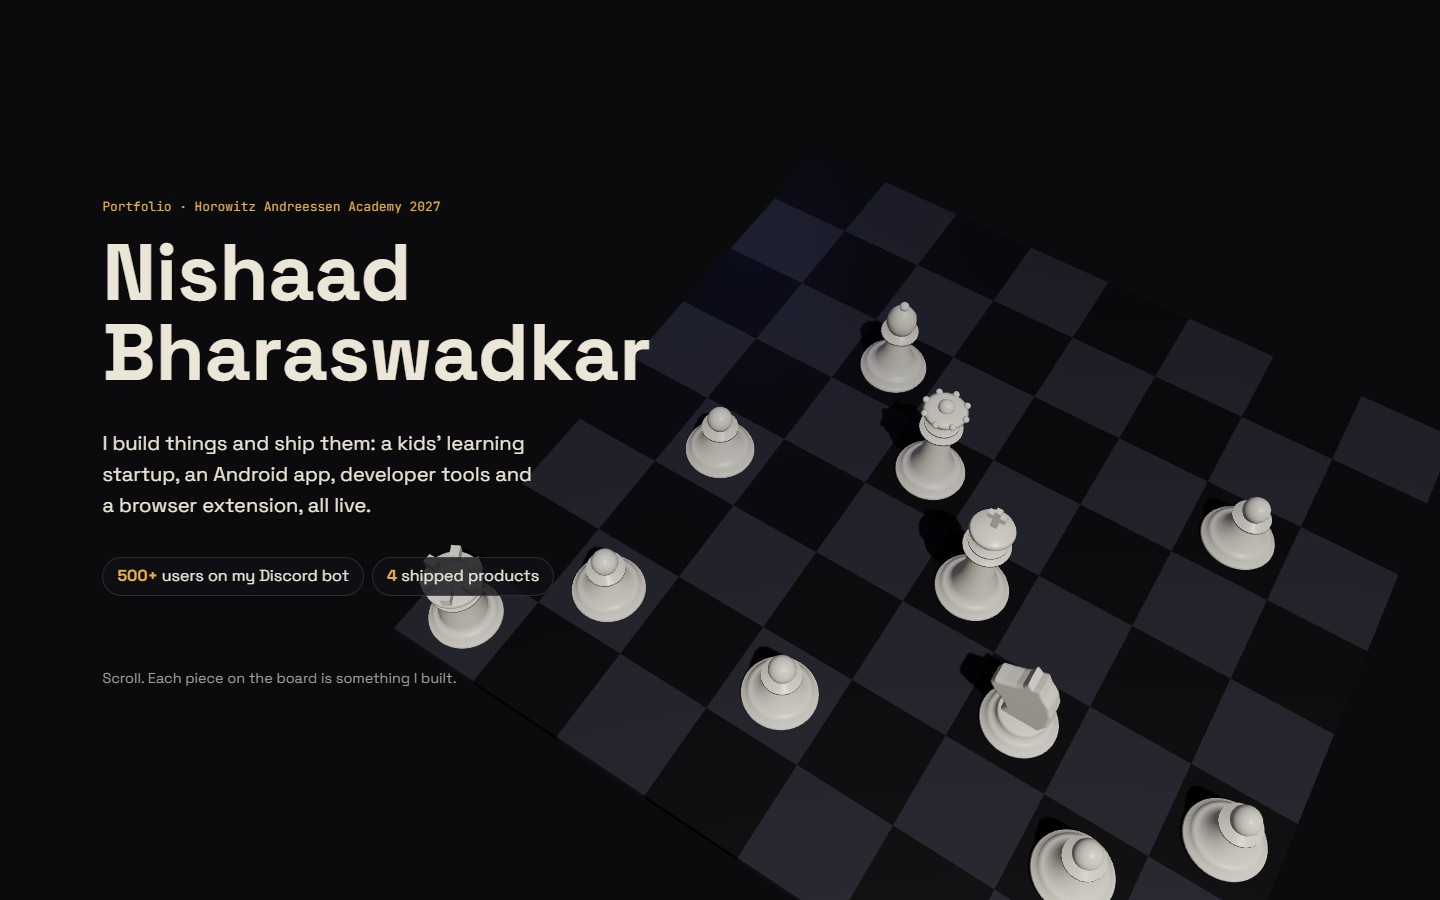
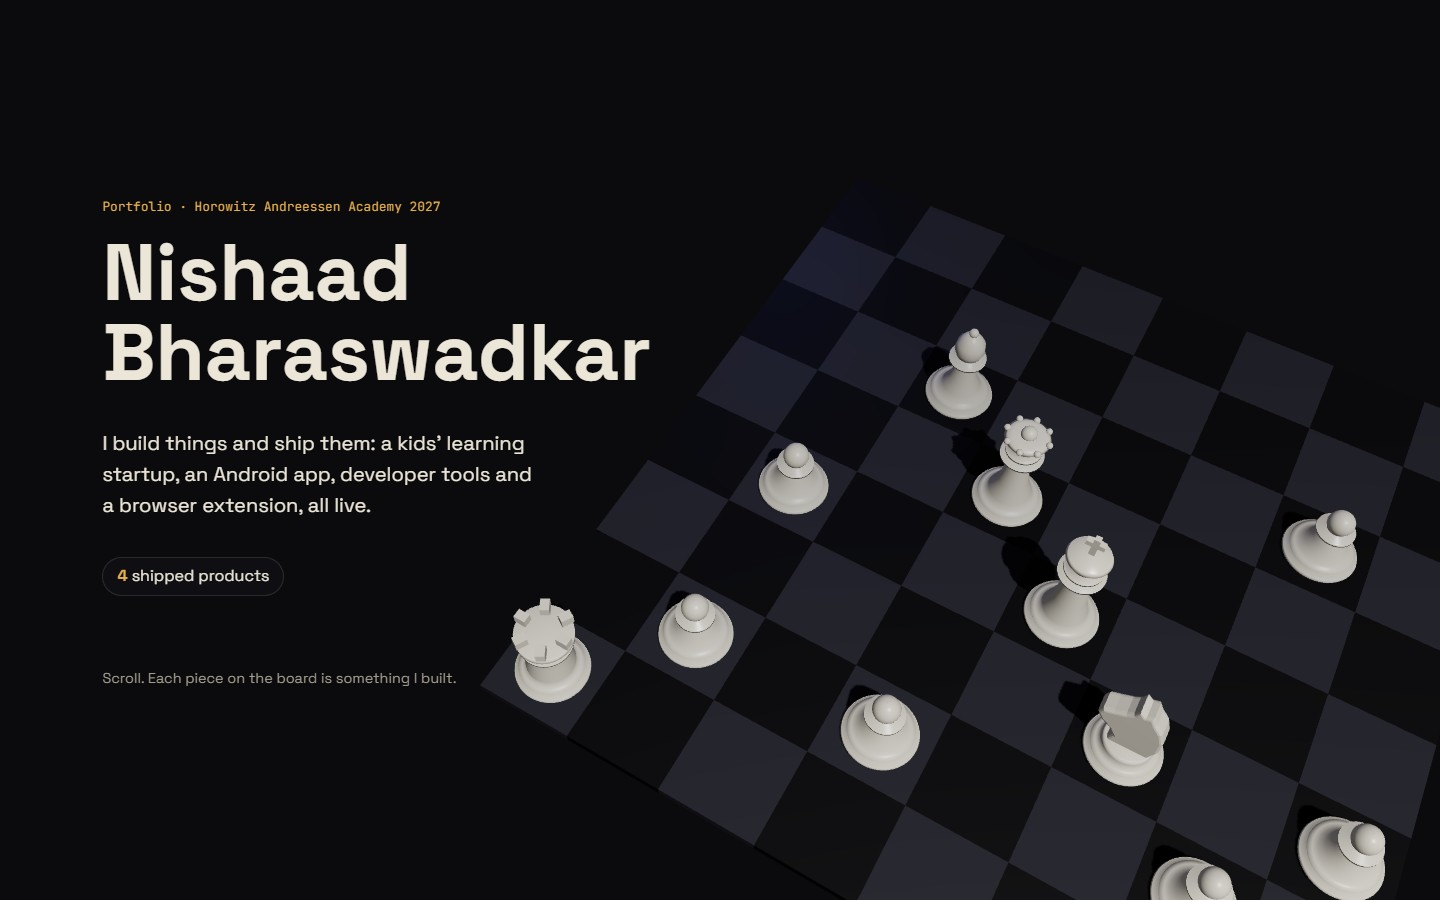
Open-ended roadmap, always show waitlist count, nudge hero board
Claude-Session: https://claude.ai/code/session_01QQbRjqAp5P345Bg7hJYo9E

Changed region(s): [[0.0625, 0.2178, 1.0, 1.0]]

diff --git a/src/App.tsx b/src/App.tsx
@@ -7,7 +7,7 @@ const show3d =
   !matchMedia('(prefers-reduced-motion: reduce)').matches &&
   !!document.createElement('canvas').getContext('webgl2')
 
-// Live Mentary waitlist count (chip hidden under 25). Shows nothing unless the env vars and the waitlist_count() RPC exist (see README).
+// Live Mentary waitlist count. Shows nothing unless the env vars and the waitlist_count() RPC exist (see README).
 function useWaitlistCount() {
   const [n, setN] = useState<number | null>(null)
   useEffect(() => {
@@ -51,8 +51,7 @@ export default function App() {
           <h1>{NAME}</h1>
           <p className="lede">I build things and ship them: a kids’ learning startup, an Android app, developer tools and a browser extension, all live.</p>
           <ul className="chips">
-            <li><b>500+</b> users on my Discord bot</li>
-            {waitlist !== null && waitlist >= 25 && <li><b>{waitlist.toLocaleString()}</b> on the Mentary waitlist <span className="live">live</span></li>}
+            {waitlist !== null && <li><b>{waitlist.toLocaleString()}</b> on the Mentary waitlist <span className="live">live</span></li>}
             <li><b>4</b> shipped products</li>
           </ul>
           <p className="hint">Scroll. Each piece on the board is something I built.</p>

diff --git a/src/projects.ts b/src/projects.ts
@@ -156,8 +156,7 @@ export const timeline = [
 ]
 
 export const nextMoves = [
-  { when: 'Now', what: 'Mentary waitlist drive, Form Rescue to the Chrome Web Store, AgentPack into the MCP community.' },
-  { when: 'Academy pursuit', what: 'Take Mentary from waitlist to real families, with an adaptive-difficulty model trained on puzzle performance.' },
-  { when: 'Open source', what: 'Turn Planora’s audit into a Supabase RLS attack tester anyone can run against their own project.' },
-  { when: 'Co-op', what: 'Work inside an AI-infrastructure company and learn how tools for developers get distributed at scale.' },
+  { when: 'Now', what: 'Getting what I’ve already built into real people’s hands, and learning from what they do with it.' },
+  { when: 'Academy', what: 'Go deep on one problem worth years of my time. Today that’s Mentary, but I’ll follow whichever problem pulls hardest.' },
+  { when: 'Co-op', what: 'Work at a company I believe in, close to the people building it, and learn how they think.' },
 ]

diff --git a/src/Board.tsx b/src/Board.tsx
@@ -122,7 +122,7 @@ function Rig({ active }: { active: number }) {
     } else if (active === -1) {
       const t = clock.elapsedTime * 0.05
       pos = new THREE.Vector3(Math.sin(t) * 2, 11, 6 + Math.cos(t))
-      tgt = new THREE.Vector3(-2.5, 0, 0.5) // board sits right of the hero text
+      tgt = new THREE.Vector3(-3.4, 0, 0.5) // board sits right of the hero text
     } else {
       pos = new THREE.Vector3(-7, 6, 7)
       tgt = new THREE.Vector3(0, 0, 0)

diff --git a/README.md b/README.md
@@ -59,7 +59,7 @@ npm run dev       # http://localhost:5173
 npm run build     # static output in dist/
 ```
 
-The live waitlist stat is optional. Set `VITE_SUPABASE_URL` and `VITE_SUPABASE_KEY` (the publishable key). Without them, or under 25 signups, it stays hidden.
+The live waitlist stat is optional. Set `VITE_SUPABASE_URL` and `VITE_SUPABASE_KEY` (the publishable key). Without them it stays hidden.
 
 <details>
 <summary>Supabase function</summary>
